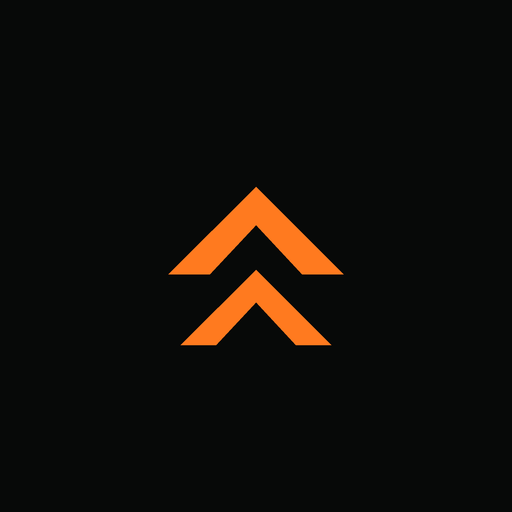
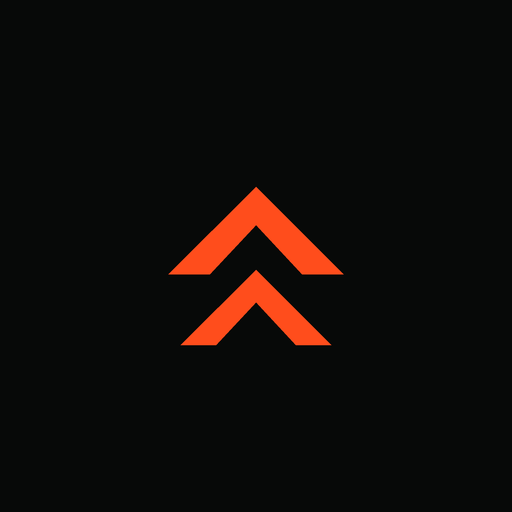
The fire is back: hot orange on Thulaib's side-by-side call, danger runs cold
He put the two builds next to each other and the verdict was immediate: the
vivid red-orange above, the muted #FF7A1F below, and below lost. The brand is
now #FF4D1C, the heat of the original era as a fresh hex.

The collision that creates is handled, not ignored: danger red was one step
from the new brand, so danger moves cold to crimson #F43F5E and the status
values inside the checks move with it. A palette is a system.

The premium push extends to where the thumb goes: the Start session button now
carries the accent gradient and a real brand-light halo, the same light the day
badge and the score ember already hold. Gradient light-stops warmed from peach
to fire. All 18 icon assets regenerated.

One casualty the gradient-aware contrast check caught: the By-day segment pill
at 12.5px could not clear AA against the worst stop of the gradient, so the
pill takes flat brand. The gradient is for the hero; a tab just says which one
is on.

282 checks, green twice at 390px and twice at 1280px in both tracking modes.
guard.py PASS, gate.js machine checks PASS.

Changed region(s): [[0.3438, 0.375, 0.6562, 0.5625], [0.3438, 0.5312, 0.6562, 0.6875]]

diff --git a/member/index.html b/member/index.html
@@ -11,7 +11,7 @@
 <link rel="apple-touch-icon" href="apple-touch-icon.png">
 <link rel="icon" href="favicon.svg" type="image/svg+xml">
 <link rel="icon" href="favicon-32.png" sizes="32x32" type="image/png">
-<link rel="mask-icon" href="icon-mono.svg" color="#FF7A1F">
+<link rel="mask-icon" href="icon-mono.svg" color="#FF4D1C">
 <meta name="apple-mobile-web-app-capable" content="yes">
 <meta name="apple-mobile-web-app-status-bar-style" content="black-translucent">
 <meta name="apple-mobile-web-app-title" content="Total Uplift">
@@ -41,12 +41,12 @@
 --sat:env(safe-area-inset-top,0px);
 --sab:env(safe-area-inset-bottom,0px);
 /* ── BRAND (swap these per client) ───────────────────────── */
---brand:#FF7A1F;            /* the one accent: Total Uplift orange. Warmer and
-   one step further from red than the staff surface's, deliberately: on a dark
-   canvas "start" and "error" must never blur. */
---brand-dark:#E85D0A;
+--brand:#FF4D1C;            /* the one accent: Total Uplift fire. The vivid
+   red-orange Thulaib chose side by side against the muted candidate. Danger
+   moved COLD to crimson so "start" and "error" still cannot blur. */
+--brand-dark:#D63008;
 --ink-deep:#0E141B;         /* Total Uplift navy, the app base */
---on-accent:#1C0A03;
+--on-accent:#200602;
 /* ── DERIVED (do not edit) ───────────────────────────────── */
 --brand-soft:color-mix(in srgb,var(--brand) 16%,transparent);
 --brand-glow:color-mix(in srgb,var(--brand) 30%,transparent);
@@ -61,13 +61,15 @@
    fine on a monitor and not fine on a phone held at arm's length in a gym. */
 /* lime measures ~17:1 on the canvas, so unlike the old orange it needs no
    separate text token. It is legible everywhere it appears. */
---brand-txt:#FF8E4D;--txt:#F4F7F3;--muted:#A6AFA8;--faint:#8A938C;
+--brand-txt:#FF7448;--txt:#F4F7F3;--muted:#A6AFA8;--faint:#8A938C;
 --line:rgba(255,255,255,.08);--line2:rgba(255,255,255,.05);
 --green:#4FD7B0;--green-soft:rgba(34,181,115,.16);
 /* AMBER, not coral. Coral beside an orange brand is the same collision mint
    made beside green: a status hue one step from the accent. */
 --amber:#F7B23B;--amber-soft:rgba(247,178,59,.16);
---danger:#FF5A4E;--danger-soft:rgba(224,80,58,.16);
+/* CRIMSON, not red-orange: beside a fire brand, danger has to run cold or a
+   Start button and an error read as brothers */
+--danger:#F43F5E;--danger-soft:rgba(244,63,94,.16);
 --radius:18px;--r-md:14px;--r-sm:10px;
 --ease:cubic-bezier(.16,1,.3,1);
 --shadow:0 1px 2px rgba(0,0,0,.4),0 8px 24px rgba(0,0,0,.35);
@@ -135,7 +137,7 @@ input,textarea{font-family:inherit;color:var(--txt)}
  pointer-events:none;opacity:.8}
 .td-score>*{position:relative;z-index:1}
 /* the flame at three strengths: category by intensity, never by a status hue */
-.bar .fi.move{background:linear-gradient(90deg,var(--brand-dark),var(--brand) 55%,#FFC08A);
+.bar .fi.move{background:linear-gradient(90deg,var(--brand-dark),var(--brand) 55%,#FF9A62);
  box-shadow:0 0 14px var(--brand-glow)}
 .bar .fi.fuel{background:linear-gradient(90deg,color-mix(in srgb,var(--brand-dark) 66%,var(--surface-3)),color-mix(in srgb,var(--brand) 66%,var(--surface-3)));
  box-shadow:0 0 10px color-mix(in srgb,var(--brand) 14%,transparent)}
@@ -166,9 +168,12 @@ input,textarea{font-family:inherit;color:var(--txt)}
 /* a thin lime edge at the top: enough to say "this one", not enough to shout */
 .sess::before{content:'';position:absolute;inset:0 0 auto 0;height:3px;
  background:var(--brand);opacity:.9}
+/* the halo goes where the thumb goes: the one action that matters is also the
+   warmest thing on the screen, same light the day badge and the ember carry */
 .sess .go{width:100%;min-height:52px;margin-top:18px;border-radius:14px;
- background:var(--brand);color:var(--on-accent);display:flex;align-items:center;
- justify-content:center;gap:10px;font-size:15px;font-weight:800;letter-spacing:-.2px}
+ background:var(--accent-grad);color:var(--on-accent);display:flex;align-items:center;
+ justify-content:center;gap:10px;font-size:15px;font-weight:800;letter-spacing:-.2px;
+ box-shadow:0 10px 30px var(--brand-glow),0 2px 8px rgba(0,0,0,.35)}
 .sess .rail{height:6px;border-radius:99px;background:var(--surface-3);margin-top:16px;overflow:hidden}
 .sess .rail i{display:block;height:100%;background:var(--brand);border-radius:99px;
  transition:width .5s var(--ease)}
@@ -332,7 +337,10 @@ input,textarea{font-family:inherit;color:var(--txt)}
 .wknav .lb{flex:1;text-align:center;font-size:13px;font-weight:700;font-variant-numeric:tabular-nums}
 .seg{display:flex;gap:4px;background:var(--surface-2);border:1px solid var(--line);border-radius:10px;padding:4px;margin-top:12px}
 .seg button{flex:1;padding:10px;min-height:44px;border-radius:10px;font-size:12.5px;font-weight:700;color:var(--muted)}
-.seg button.on{background:var(--accent-grad);color:var(--on-accent)}
+/* FLAT brand, not the gradient: at 12.5px the dark text has to clear AA against
+   the WORST stop of any sweep behind it, and brand-dark is too deep for that.
+   The gradient is for the hero; a tab pill just needs to say which one is on. */
+.seg button.on{background:var(--brand);color:var(--on-accent)}
 .day{background:var(--surface);border:1px solid var(--line);border-radius:var(--r-md);margin-bottom:8px;overflow:hidden}
 .day-h{display:flex;align-items:center;gap:12px;padding:13px 15px;width:100%;text-align:left}
 .day-h .dot{width:9px;height:9px;border-radius:50%;flex-shrink:0}
@@ -2148,7 +2156,7 @@ function upliftPath(compact){
  g='<defs><linearGradient id="'+uid+'" x1="0" y1="0" x2="1" y2="0">'
   +'<stop offset="0" stop-color="var(--brand-dark)"/>'
   +'<stop offset=".62" stop-color="var(--brand)"/>'
-  +'<stop offset="1" stop-color="#FFC08A"/></linearGradient></defs>'+g;
+  +'<stop offset="1" stop-color="#FF9A62"/></linearGradient></defs>'+g;
  g+='<path class="climb" d="'+line+'" fill="none" stroke="url(#'+uid+')" stroke-width="2"'
   +' stroke-linejoin="round" stroke-linecap="round" vector-effect="non-scaling-stroke"/>';
  if(!compact){
@@ -3045,7 +3053,7 @@ function receiptFor(month){
  const mem=DB.get('member');
  const w=window.open('','_blank');
  if(!w){toast('Allow pop-ups to open your receipt');return;}
- const brand=getComputedStyle(document.documentElement).getPropertyValue('--brand').trim()||'#FF7A1F';
+ const brand=getComputedStyle(document.documentElement).getPropertyValue('--brand').trim()||'#FF4D1C';
  w.document.write('<!doctype html><html><head><meta charset="utf-8"><meta name="viewport" content="width=device-width,initial-scale=1">'
  +'<title>Receipt '+month+'</title><style>*{margin:0;box-sizing:border-box;font-family:Arial,Helvetica,sans-serif}'
  +'body{background:#eee;color:#1a1a1a;padding:18px}.p{max-width:520px;margin:0 auto;background:#fff;padding:26px}'
@@ -4504,7 +4512,7 @@ async function runSelfTest(){
   (function(){
    go('today');
    const bars=Array.from(document.querySelectorAll('#tdBars .fi'));
-   const status=['247, 178, 59','255, 90, 78','79, 215, 176'];  /* amber, red, mint */
+   const status=['247, 178, 59','244, 63, 94','79, 215, 176'];  /* amber, crimson, mint */
    const borrowed=bars.filter(b=>{
     const bg=getComputedStyle(b).backgroundColor+getComputedStyle(b).backgroundImage;
     return status.some(s=>bg.indexOf(s)>-1);});
@@ -4517,7 +4525,7 @@ async function runSelfTest(){
     const p=document.querySelector('#pg-today .prov.unset');
     if(p){const c=getComputedStyle(p).color;
      ok('Colour: asking a question is not painted as a warning',
-       c.indexOf('247, 178, 59')<0&&c.indexOf('255, 90, 78')<0,c);}
+       c.indexOf('247, 178, 59')<0&&c.indexOf('244, 63, 94')<0,c);}
    })();
     ok('Colour: a perfect score is not painted as a warning',
      !rest||getComputedStyle(rest).backgroundColor.indexOf('247, 178, 59')<0);
